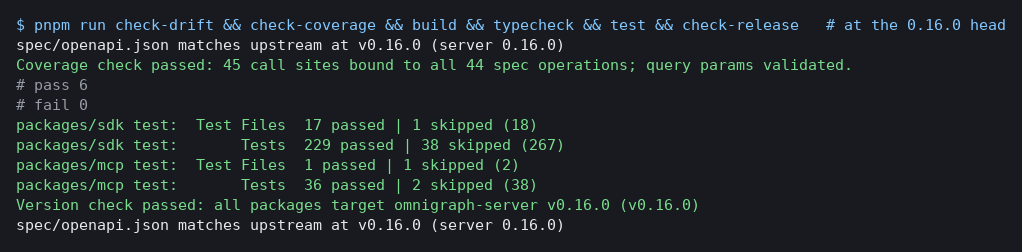
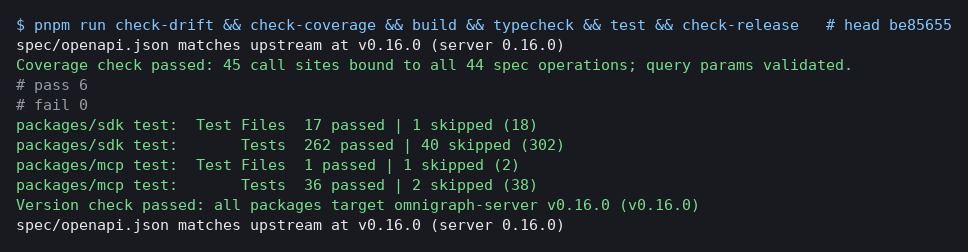
Refresh captures and ledger after the Codex review fixes

diff --git a/ledger.md b/ledger.md
@@ -1,14 +1,14 @@
 # Omnigraph v0.14.0 → v0.16.0: client SDK commit ledger
 
 Every commit in `v0.14.0..v0.15.0` and `v0.15.0..v0.16.0` of ModernRelay/omnigraph, in order, with its effect on the Python SDK (`omnigraph-python`) and the TypeScript SDK (`omnigraph-ts`).
-Impact is `none`, `python`, `ts` or `both`. Wire facts were checked against the `openapi.json` diff of each tag (see the summary), the release notes and the commits themselves, and the new behaviour was exercised live against servers built from v0.15.0 (release binaries) and v0.16.0 (source).
+Impact is `none`, `python`, `ts` or `both`. Wire facts were checked against the `openapi.json` diff of each tag, the release notes and the commits themselves, and the new behaviour was exercised live against servers built from v0.15.0 (release binaries) and v0.16.0 (source and release binaries). Revised after Codex's review: `6fc2f823` (merge limit resource name), `62779133` (lookup uncertainty, receipts, cancel semantics) and `4f47b976` (Python tracing advice).
 
 ## Summary of wire changes
 
 - The `Omnigraph-Http-Api` contract stays `0.14` in both releases. Both SDKs derived the header from the server minor; that is fixed first in each PR.
 - 0.15 spec: `GET /branches?detailed=true` (`BranchDetailOutput`), `ReadOutput.ranking` (`RankingOutput`, `SearchFunction`, `RankOrder`), `AccessOutput.client_id`, `ErrorCode.not_admitted`, `SettingsRequest.change_lineage`, `LoadSliceExecutedOutput.read_ns`.
 - 0.16 spec: `POST /graphs/{id}/operations/optimize`, `GET /graphs/{id}/operations/{op}`, `POST /graphs/{id}/operations/{op}/cancel` (`StartOptimizeRequest`, `OperationOutput`, `OperationLookup`), `ErrorCode.writer_fenced` + `ErrorOutput.writer_fenced` (`WriterFencedOutput`), `AccessAction.maintain`, 409/500 on the cluster deployment reads.
-- Behaviour outside the spec: graphs without a policy refuse reads (0.16), request settings capped at server budgets (0.16), lost conditional race → `precondition_failure` (0.16), dry-run merge is a read (CLI, 0.16), converged direct apply releases its lock (0.16), U64 parameters above `i64::MAX` bind (0.15).
+- Behaviour outside the spec: graphs without a policy refuse reads (0.16), request settings capped at server budgets (0.16), lost conditional race → `precondition_failure` (0.16), the merge validation limit's `resource_limit` name and measure (0.16), a recorded-operation lookup can answer 500 `outcome_unknown` (0.16), dry-run merge is a read (CLI, 0.16), converged direct apply releases its lock (0.16), U64 parameters above `i64::MAX` bind (0.15).
 
 ## v0.14.0 → v0.15.0
 
@@ -34,7 +34,7 @@ Impact is `none`, `python`, `ts` or `both`. Wire facts were checked against the 
 | [`87006019`](https://github.com/ModernRelay/omnigraph/commit/87006019) | fix(load): admit a csv overwrite's memory once, one share per partition (#1187) | none | Load memory admission; a refusal stays 413 `payload_too_large` with `resource_limit`, already mapped. |
 | [`dc4a79d3`](https://github.com/ModernRelay/omnigraph/commit/dc4a79d3) | fix(server): refuse an unadmitted OIDC subject without a sign-in challenge (#1185) | both | New error code `not_admitted` (403, `effects: none`, no challenge). Regenerated `ErrorCode`; new `NotAdmittedError` (a `ForbiddenError`) so callers can tell "sign in again" from "ask the operator"; a refused write is no longer `outcome_unknown` (TS PR #25's intent). |
 | [`99b2d165`](https://github.com/ModernRelay/omnigraph/commit/99b2d165) | fix(cli)!: align organization commands with provider authority (#1179) | none | CLI only; the SDKs do not wrap the CLI. |
-| [`4f47b976`](https://github.com/ModernRelay/omnigraph/commit/4f47b976) | feat(server): add optional OTLP traces and correlated JSON logs (#1001) | none | Server OTLP traces/logs. The server reads incoming W3C `traceparent`; callers can already add it through an injected `fetch` (TS) or `httpx` client (Python). Listed under not carried over. |
+| [`4f47b976`](https://github.com/ModernRelay/omnigraph/commit/4f47b976) | feat(server): add optional OTLP traces and correlated JSON logs (#1001) | none | Server OTLP traces/logs. The server reads incoming W3C `traceparent`; TS callers add it with a custom `fetch`, Python callers with an `httpx.AsyncBaseTransport` that wraps the default one (the client takes a transport, not an `AsyncClient`; the Python README shows one). No new SDK option. |
 | [`dac660fb`](https://github.com/ModernRelay/omnigraph/commit/dac660fb) | feat(server)!: log an unknown publication's graph commit as its own field (#1124) | none | Server log field and Rust error API; the HTTP `outcome_unknown` body is unchanged. |
 | [`be90423a`](https://github.com/ModernRelay/omnigraph/commit/be90423a) | feat(cli): build a branch's declared indexes with omnigraph index build (#1150) | both | Spec text only: the full-text remedy now names `omnigraph index build`. Regenerated doc comments. |
 | [`37b05ab4`](https://github.com/ModernRelay/omnigraph/commit/37b05ab4) | build(nix): build the release binaries with a Nix flake (#1153) | none | Engine CI, build or release tooling. |
@@ -128,7 +128,7 @@ Impact is `none`, `python`, `ts` or `both`. Wire facts were checked against the 
 | [`757ab0e9`](https://github.com/ModernRelay/omnigraph/commit/757ab0e9) | feat(engine): add writer epoch fencing and the owner's probe skip (#1350) | both | New error code `writer_fenced` (409) with body `writer_fenced` (`WriterFencedOutput`: `current`, `held`, `read`). Regenerated; new `WriterFencedError` (a `ConflictError`) with a `writerFenced` / `writer_fenced` accessor; disposition decides `outcome_unknown` (PR #25's intent). |
 | [`0065a69f`](https://github.com/ModernRelay/omnigraph/commit/0065a69f) | rfc: graph shallow clone (#1351) | none | RFC (shallow clone). |
 | [`d0b9af44`](https://github.com/ModernRelay/omnigraph/commit/d0b9af44) | feat(engine)!: bound optimize runs and report each table's outcome (#1275) | both | Adds the `maintain` policy action (`AccessAction`) and per-dataset optimize outcomes. Regenerated enum; `access()` reports `maintain`; the operation record type carries the outcomes. |
-| [`62779133`](https://github.com/ModernRelay/omnigraph/commit/62779133) | feat(server,cli): run optimize as a recorded operation through the serving owner (#1282) | both | New routes `POST /operations/optimize`, `GET /operations/{id}`, `POST /operations/{id}/cancel` (`StartOptimizeRequest`, `OperationOutput`, `OperationLookup`). New `operations` resource: `optimize` (mints a canonical ULID when none is given), `get`, `cancel`, `wait` (polls the read route only), typed `Operation` record, `isTerminal`. Unit and e2e tests. |
+| [`62779133`](https://github.com/ModernRelay/omnigraph/commit/62779133) | feat(server,cli): run optimize as a recorded operation through the serving owner (#1282) | both | New routes `POST /operations/optimize`, `GET /operations/{id}`, `POST /operations/{id}/cancel` (`StartOptimizeRequest`, `OperationOutput`, `OperationLookup`). New `operations` resource: `optimize` (the caller's id is required; `newOperationId()` / `new_operation_id()` mints one, `optimize` never does), `get`, `cancel` (best effort; a `publishing` record is returned unchanged), `wait` (polls the read route only), typed record, and one receipt check for all three routes. A lookup can answer 500 `outcome_unknown` when its settlement write is in doubt; both SDKs now keep a server-sent `outcome_unknown` on every route. Unit and live tests, including a live cancel of an active run. |
 | [`adf024b7`](https://github.com/ModernRelay/omnigraph/commit/adf024b7) | fix(server)!: reserve the principal: actor prefix for signed identities (#1323) | none | Static-token actors may not start with `principal:`; server configuration only. Test actors are unaffected. |
 | [`259f6acb`](https://github.com/ModernRelay/omnigraph/commit/259f6acb) | fix(server)!: refuse a bearer-tokens file other accounts can write (#1324) | none | Server refuses a group/world-writable bearer-tokens file; e2e fixtures pass tokens through the environment. |
 | [`9a108b17`](https://github.com/ModernRelay/omnigraph/commit/9a108b17) | docs: state encryption at rest, catalog growth and outbound embedding requests (#1326) | none | Documentation only. |
@@ -176,7 +176,7 @@ Impact is `none`, `python`, `ts` or `both`. Wire facts were checked against the 
 | [`25b51992`](https://github.com/ModernRelay/omnigraph/commit/25b51992) | fix(cluster): every reader selects a scope's policy bundle by one rule (#1434) | none | Policy bundle binding rule; fixtures bind one bundle per scope. |
 | [`5a1ec458`](https://github.com/ModernRelay/omnigraph/commit/5a1ec458) | feat(bench)!: interleave `--at` refs per scenario and read several catalogs (#1439) | none | Engine test tooling (GQT, DST, bench); not shipped to clients. |
 | [`6da4c967`](https://github.com/ModernRelay/omnigraph/commit/6da4c967) | fix(cli): write a null as an empty field in CSV output (#1440) | none | CLI only; the SDKs do not wrap the CLI. |
-| [`6fc2f823`](https://github.com/ModernRelay/omnigraph/commit/6fc2f823) | fix(merge): stream merge validation and count only the delta's keys (#1433) | none | Engine internals (planner, storage, caches, performance); no change on the wire. |
+| [`6fc2f823`](https://github.com/ModernRelay/omnigraph/commit/6fc2f823) | fix(merge): stream merge validation and count only the delta's keys (#1433) | both | Merge validation streams the delta and counts only its keys; the structured 413 `resource_limit` names `branch-merge retained validation key bytes` instead of `branch-merge retained validation delta bytes`. No binding change: `resourceLimit` / `resource_limit` already carries the name and numbers. Recorded in both changelogs (callers should match on the code, not the name). Corrected after review: first classified as having no wire impact. |
 | [`bcc93bdc`](https://github.com/ModernRelay/omnigraph/commit/bcc93bdc) | docs(skill): start onboarding from the user's use case and end it with a completion check (#1420) | none | Documentation only. |
 | [`42013036`](https://github.com/ModernRelay/omnigraph/commit/42013036) | feat(gqt): declare a case's branches as state, not as steps (#1443) | none | Engine test tooling (GQT, DST, bench); not shipped to clients. |
 | [`90ccacb0`](https://github.com/ModernRelay/omnigraph/commit/90ccacb0) | fix(engine): bound the memory of removing nodes an edge type references (#1444) | none | Engine internals (planner, storage, caches, performance); no change on the wire. |
@@ -205,4 +205,4 @@ Impact is `none`, `python`, `ts` or `both`. Wire facts were checked against the 
 | Range | none | python | ts | both |
 |---|---|---|---|---|
 | v0.14.0 → v0.15.0 | 84 | 0 | 2 | 8 |
-| v0.15.0 → v0.16.0 | 73 | 1 | 2 | 10 |
+| v0.15.0 → v0.16.0 | 72 | 1 | 2 | 11 |
